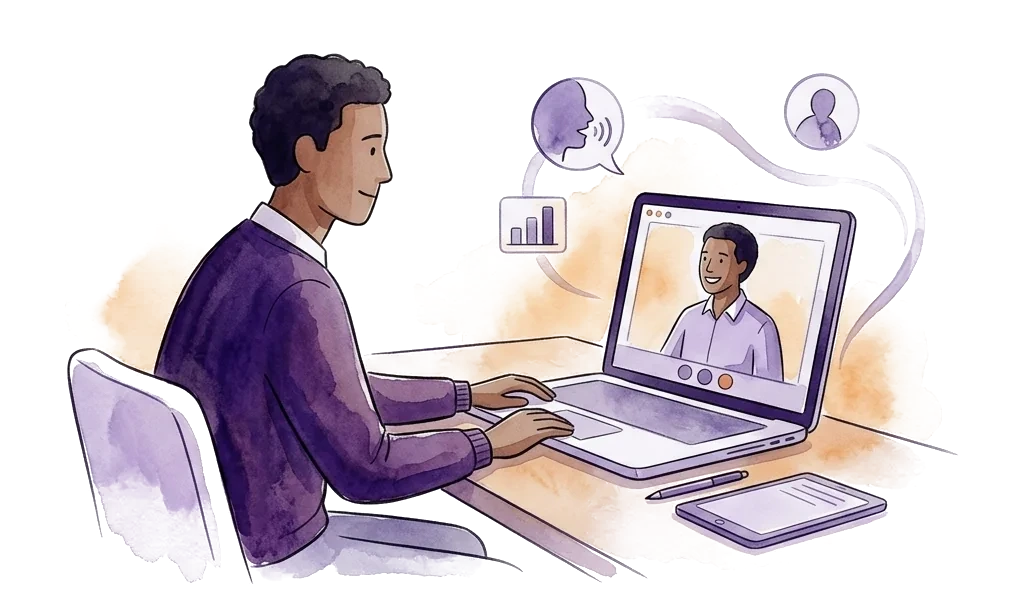
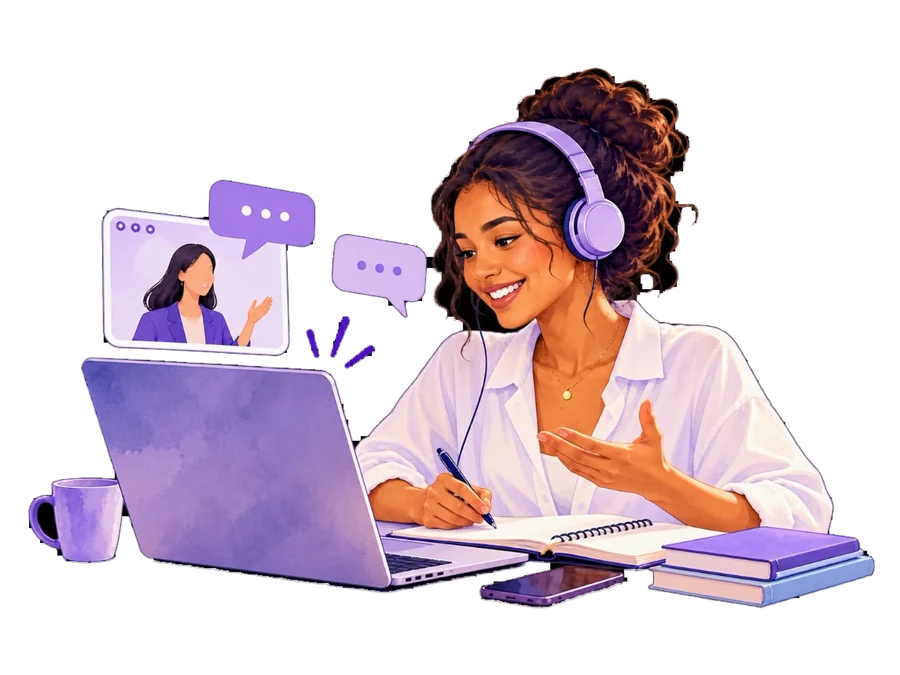
Cartes Cours & tarifs : nouvelles illustrations du client, detourees sur fond transparent
Les trois illustrations fournies le 2026-10-09 remplacent les aquarelles. Leur fond noir
d'origine a ete retire : c'est desormais le degrade lavande -> creme de `.offer .img` qui se
voit au travers, donc plus aucune rupture entre l'image et son cadre, et changer cette couleur
ne demandera pas de regenerer les fichiers.

Deux difficultes de detourage, pour memoire si les prochaines images arrivent sur le meme fond :
les ombres des chevelures bouclees sont du noir quasi pur et touchent le fond, donc aucun seuil
de luminance ne les en distingue — c'est la NEUTRALITE qui les separe (le fond est un noir
parfaitement neutre, les cheveux sont violaces). Et le bord des sujets etant lisse sur du noir,
il a fallu un alpha progressif sur la bande de bord pour eviter un lisere sombre sur fond clair.

Livrees en 4:3, le ratio exact de la zone image, donc aucun recadrage au `object-fit: cover`.
319 ko au total contre 366 ko pour les aquarelles.

diff --git a/src/components/vitrine/PageCours.tsx b/src/components/vitrine/PageCours.tsx
@@ -47,18 +47,22 @@ const PROGRAMMES: { type: TypeProgrammeProspect; badge: string; titre: string; t
   },
 ]
 
+/* Illustrations fournies par le client le 2026-10-09, détourées de leur fond noir d'origine.
+   Elles sont livrées en 4:3, le ratio exact de la zone image des cartes, et sur fond
+   transparent : c'est le dégradé de `.offer .img` qui se voit au travers, si bien que changer
+   cette couleur ne demande pas de regénérer les fichiers. */
 const PHOTOS: Record<TypeProgrammeProspect, { src: string; alt: string }> = {
   individuel: {
     src: '/programmes/individuel.webp',
-    alt: 'Illustration aquarelle d’un élève en appel vidéo avec son professeur sur son ordinateur portable',
+    alt: 'Illustration d’une étudiante au casque, carnet et stylo en main, en appel vidéo avec sa professeure sur son ordinateur portable',
   },
   duo: {
     src: '/programmes/duo.webp',
-    alt: 'Illustration aquarelle de deux élèves côte à côte en appel vidéo avec leur professeur',
+    alt: 'Illustration de deux étudiants côte à côte devant un même ordinateur portable, en appel vidéo avec leur professeure',
   },
   collectif: {
     src: '/programmes/collectif.webp',
-    alt: 'Illustration aquarelle d’un petit groupe d’élèves qui échange autour d’un appel vidéo collectif',
+    alt: 'Illustration d’une étudiante au casque suivant un cours collectif, six participants affichés sur l’écran de son ordinateur portable',
   },
 }
 
